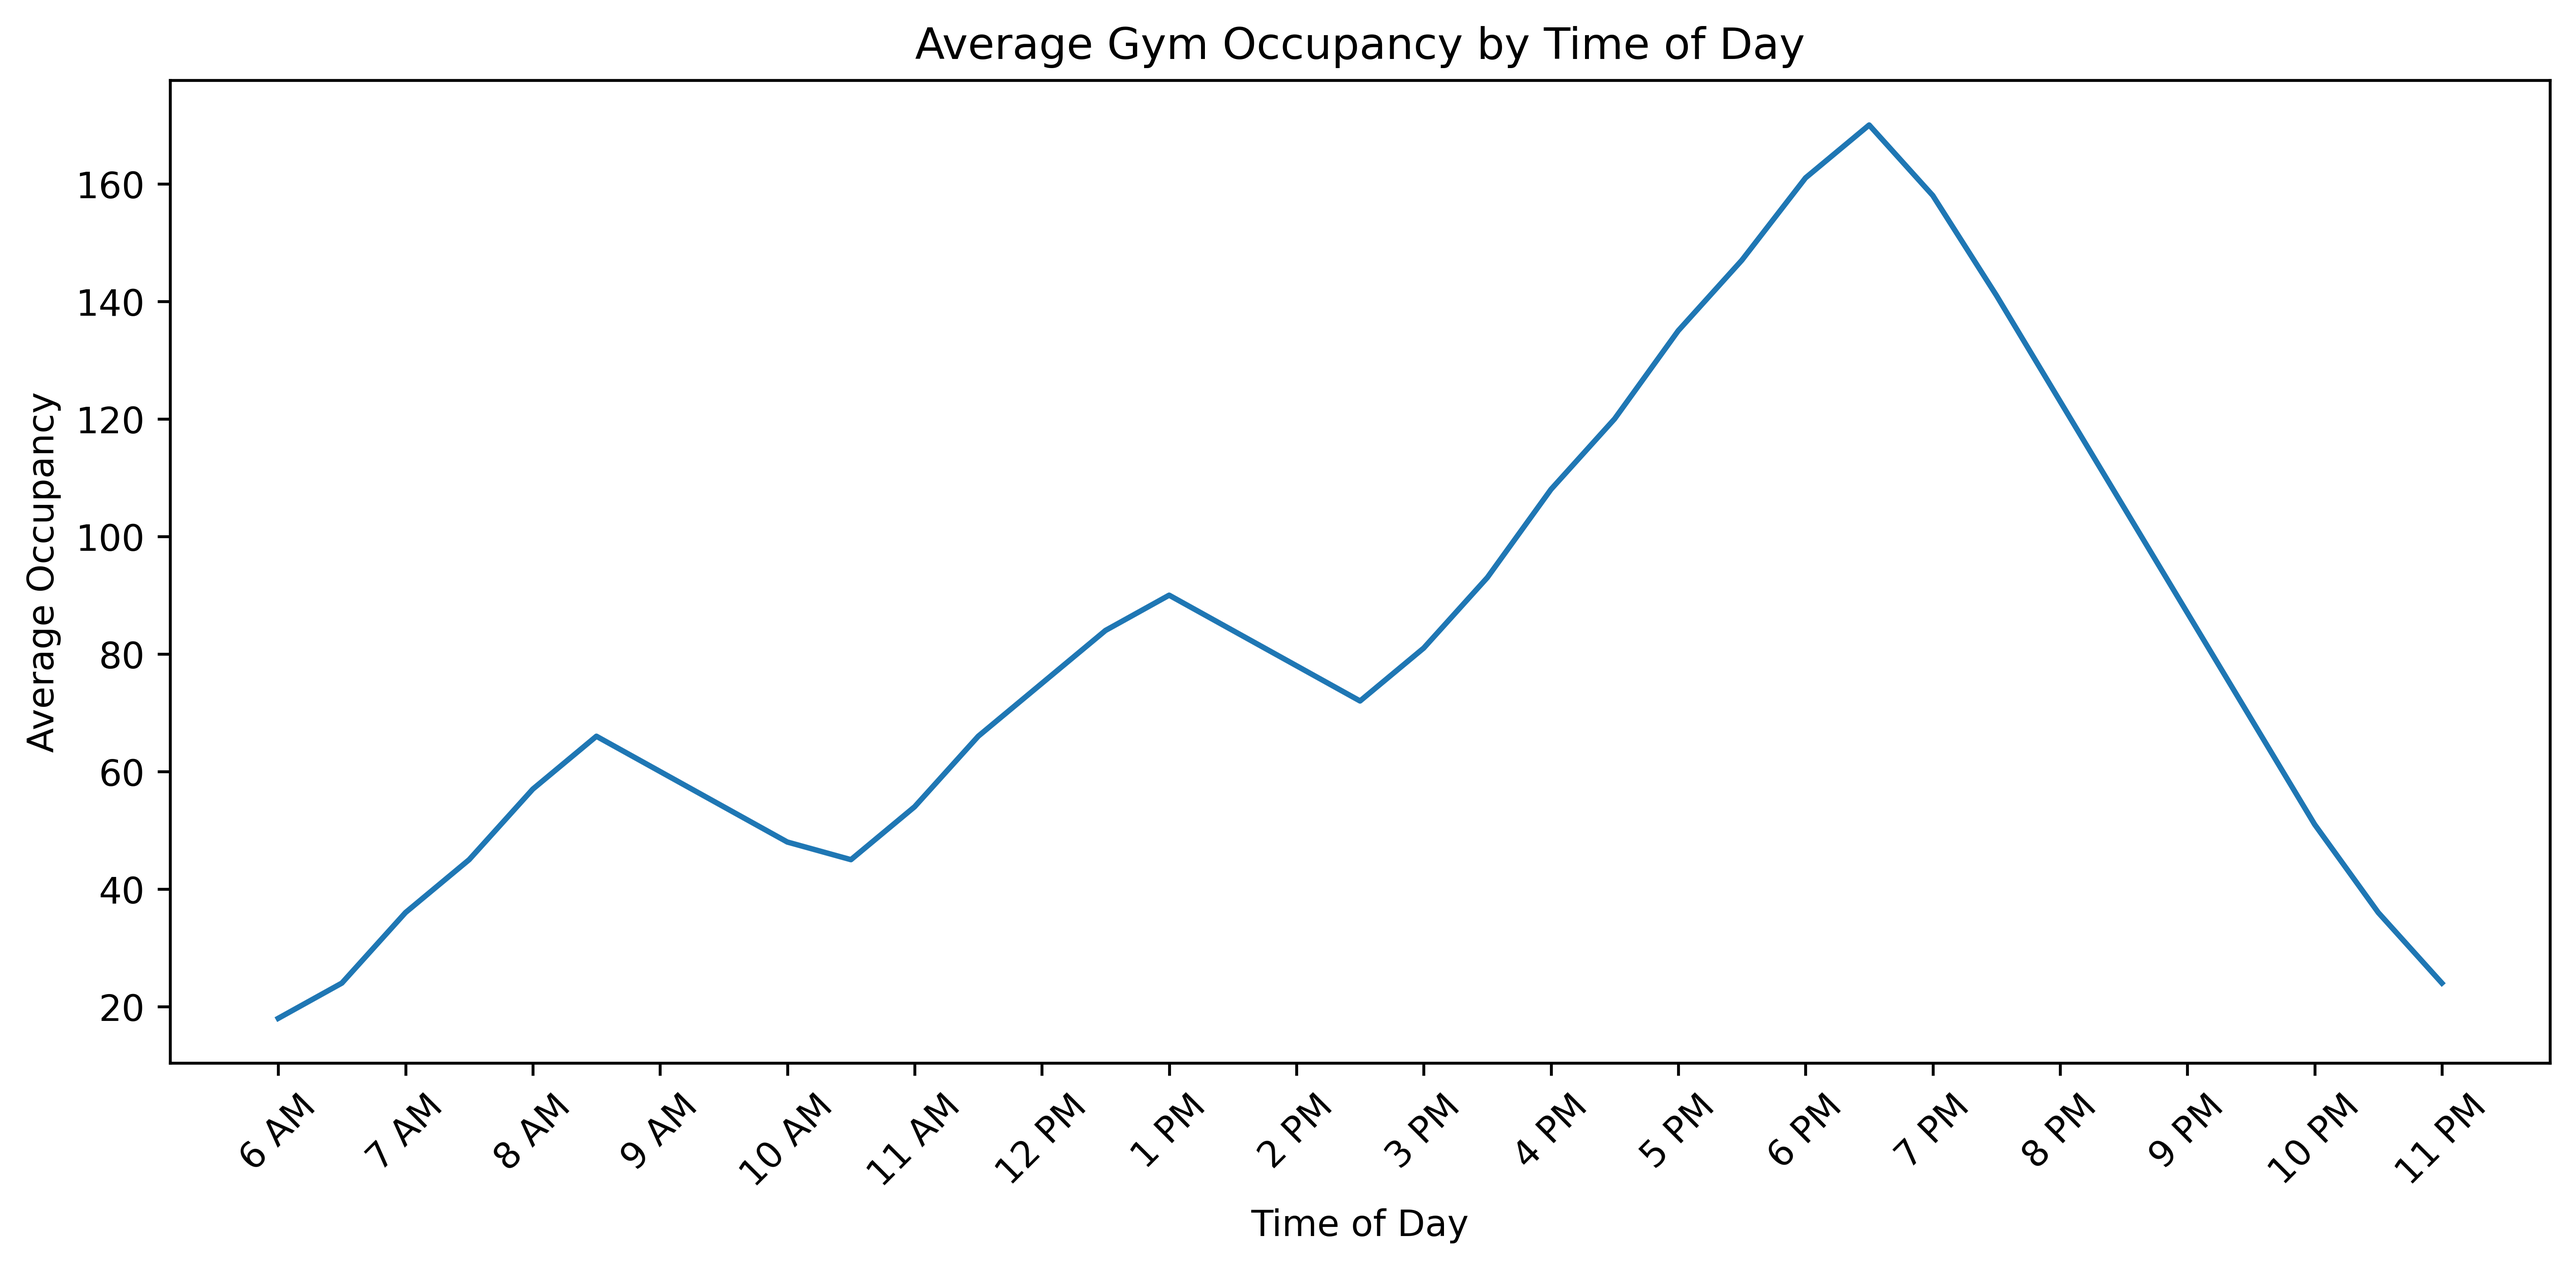
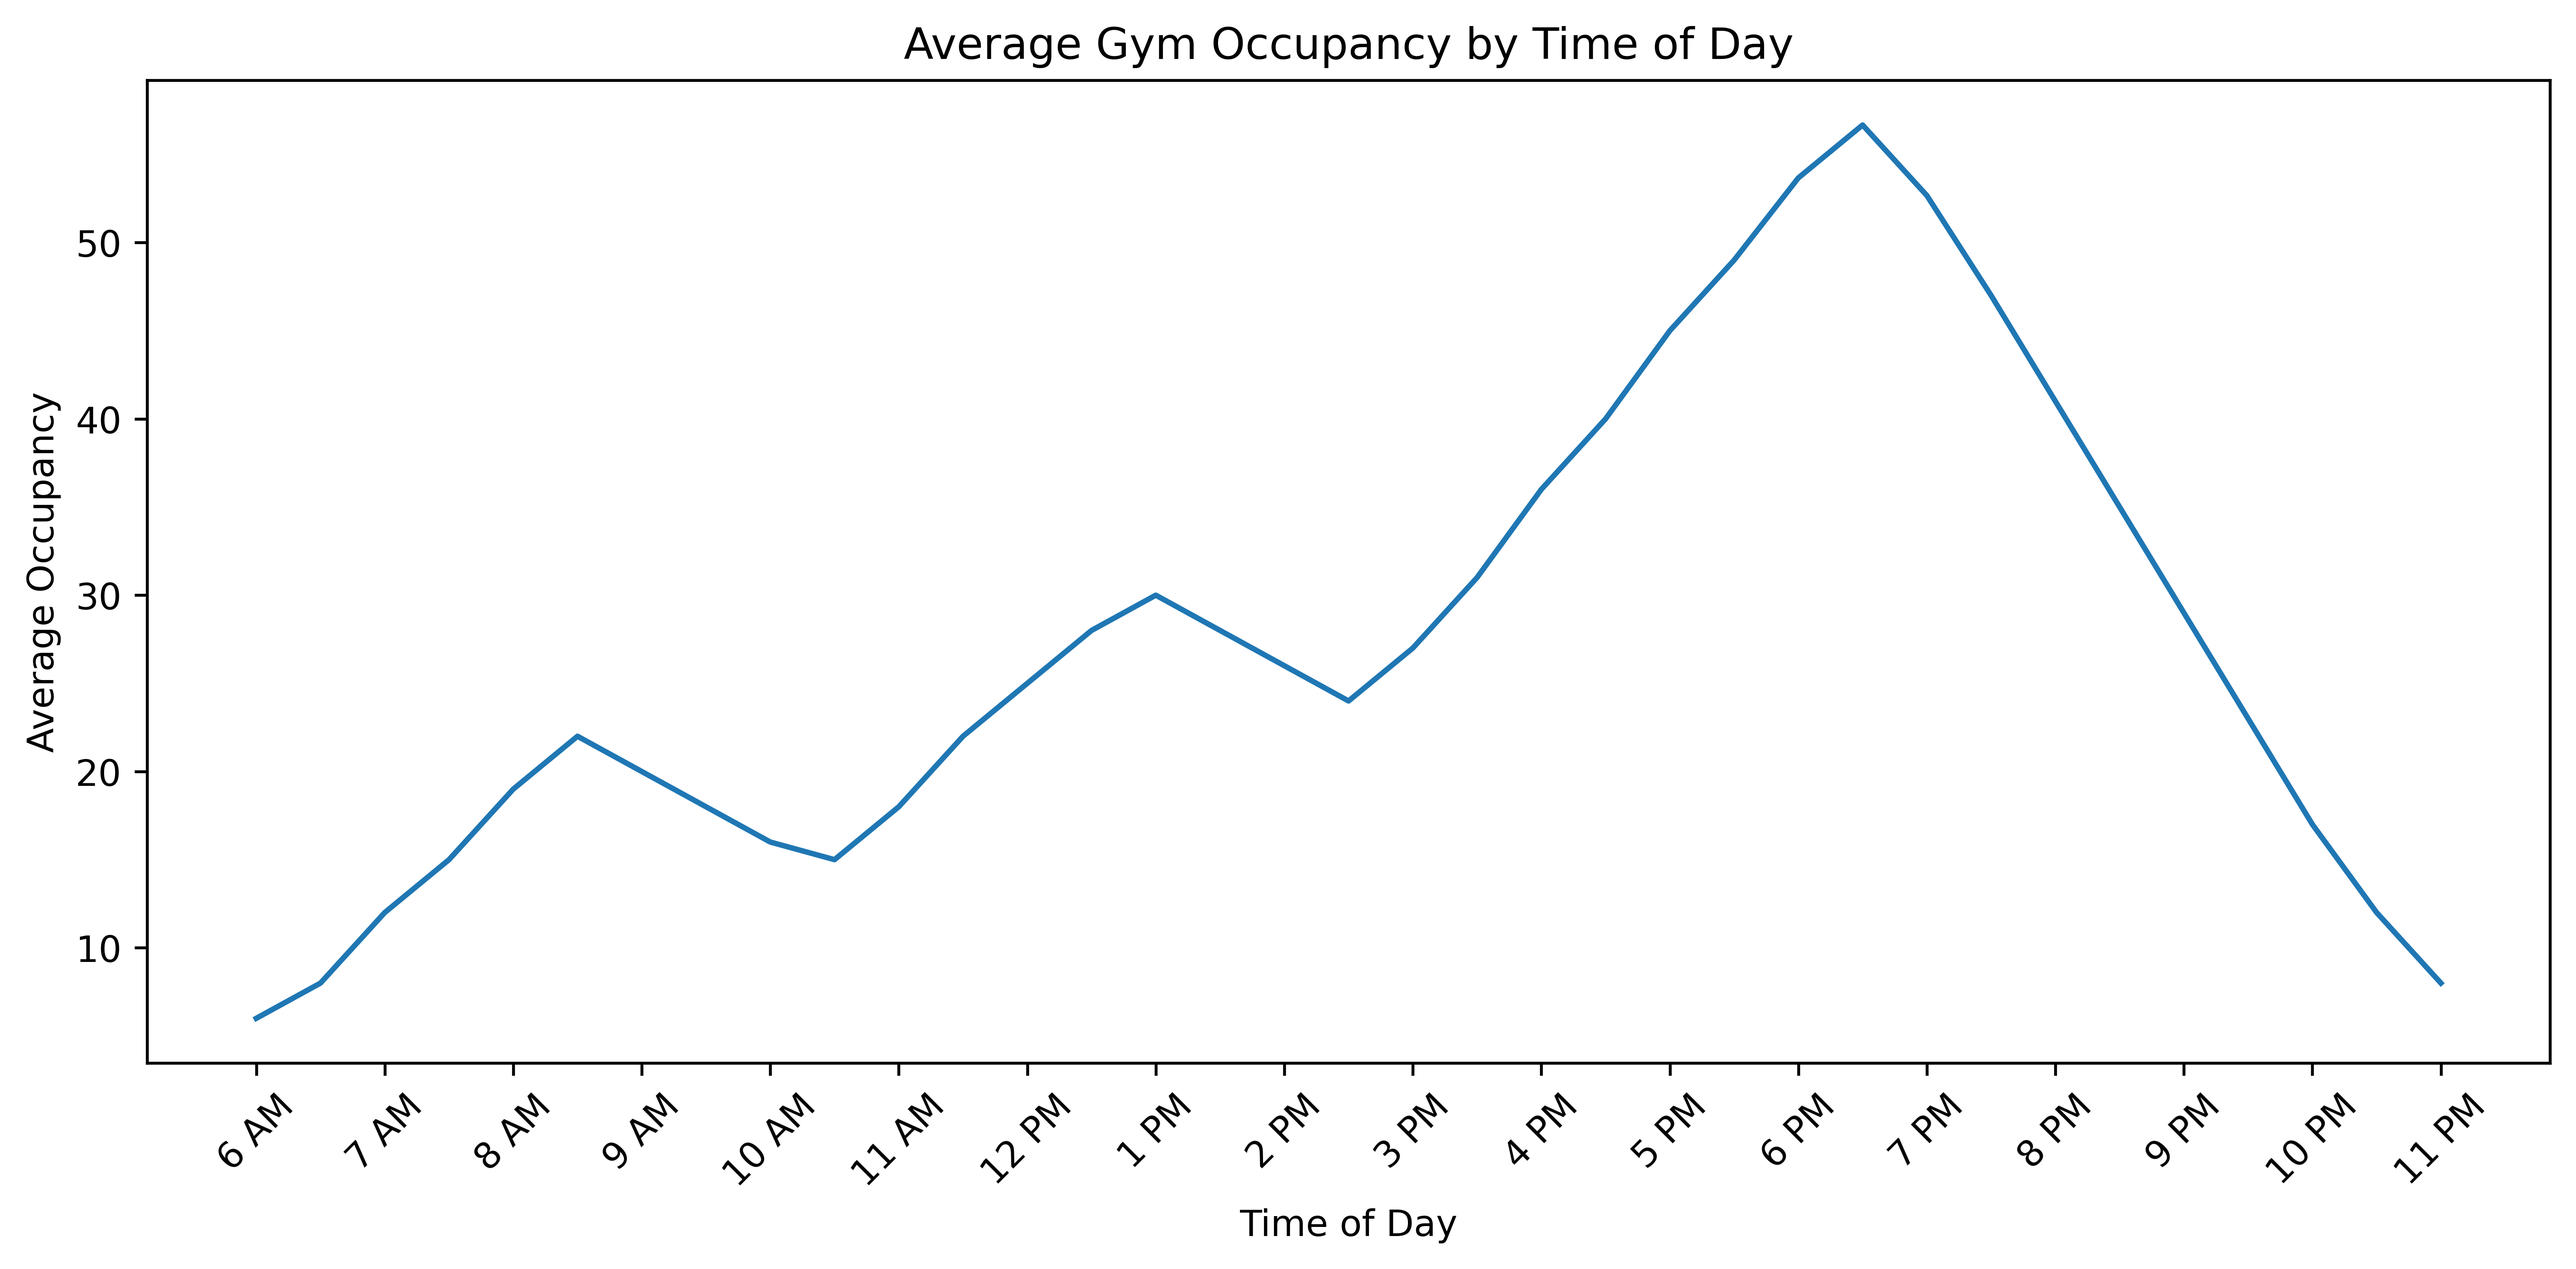
Finalize gym occupancy scraper and analysis pipeline

diff --git a/scrape.py b/scrape.py
@@ -1,4 +1,4 @@
-import time, os, csv, requests, sqlite3
+import time, os, csv, requests
 from datetime import datetime
 from bs4 import BeautifulSoup
 
@@ -15,11 +15,11 @@ def scrape():
         soup = BeautifulSoup(res.content, 'html.parser') # parse html of page
         current_occupancy = int(soup.select('p > strong')[1].text.strip())
 
-        file_exists = os.path.exists('occupancy.csv')
+        file_exists = os.path.exists('data/occupancy.csv')
         
-        with open ('occupancy.csv', 'w+', newline='', encoding='utf-8') as output_file:
+        with open ('occupancy.csv', 'a', newline='', encoding='utf-8') as output_file:
             dict_writer = csv.DictWriter(output_file, fieldnames=Columns)
-            if not file_exists: # write header just once
+            if output_file.tell() == 0: # write header just once
                 dict_writer.writeheader()
             dict_writer.writerow({
                 'Timestamp': timestamp,

diff --git a/analysis.py b/analysis.py
@@ -39,8 +39,8 @@ for occupancy in occupancy_df['Occupancy']:
 
 num_days = len(occupancy_df) // 35
 
-for occupancy in average_occupancy:
-    occupancy = occupancy/num_days
+for i in range(len(average_occupancy)):
+    average_occupancy[i] = average_occupancy[i]/num_days
 
 plt.figure(figsize=(10, 5))
 plt.plot(range(35), average_occupancy)  # numeric x so ticks behave nicely
